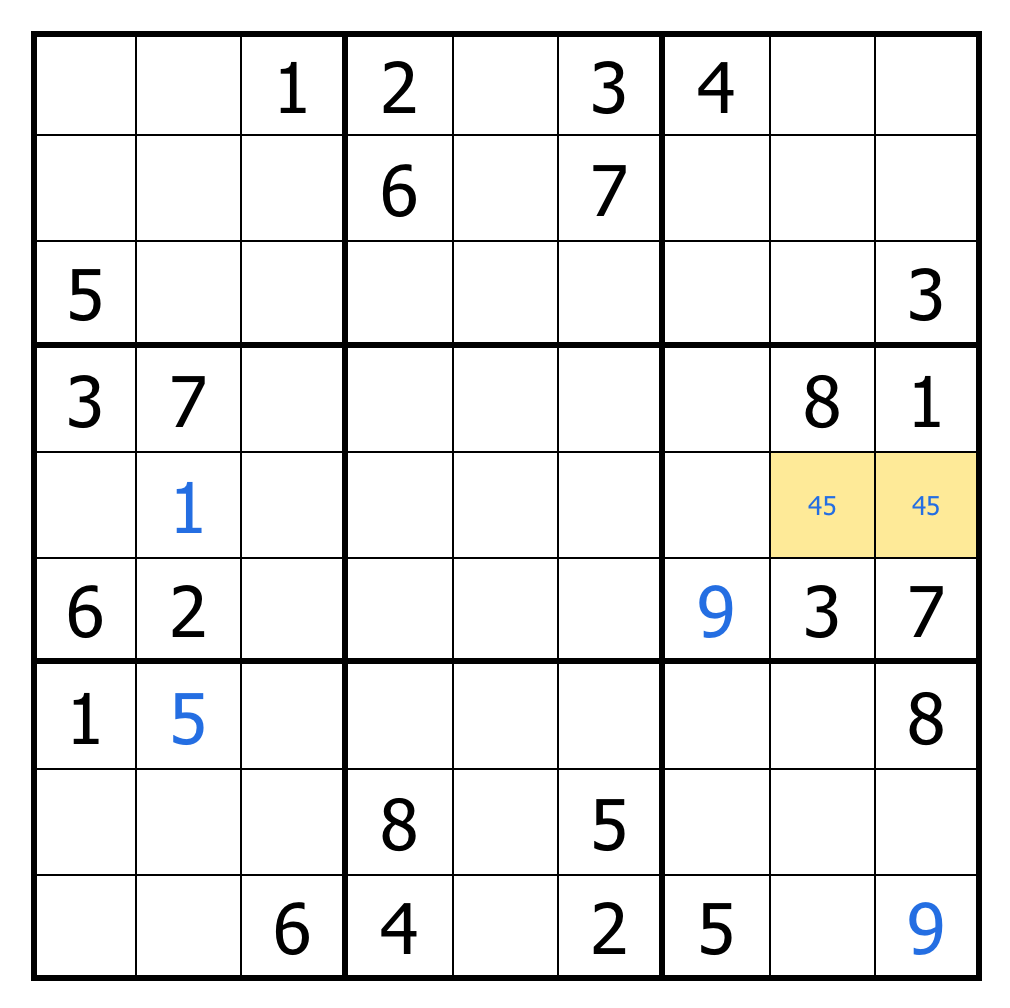
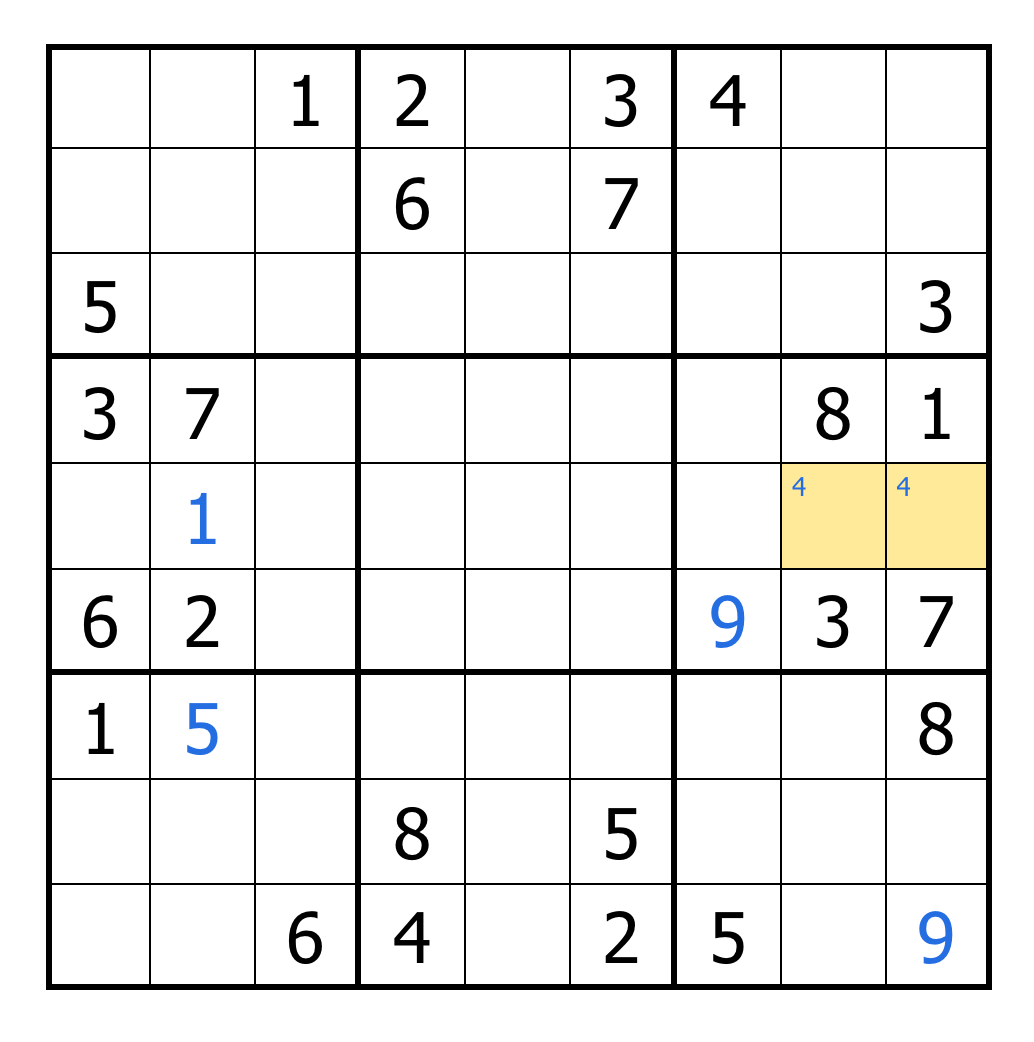
improve explanation

Changed region(s): [[0.0307, 0.0308, 0.9822, 0.9841], [0.2149, 0.3383, 0.2762, 0.369], [0.5218, 0.3383, 0.5525, 0.369]]

diff --git a/posts/2020-06-06.md b/posts/2020-06-06.md
@@ -283,11 +283,11 @@ Before racing ahead, double check these inferences. We've already talked through
 
 #### RULE: Exclusions happen even with uncertainty!
 
-If we check out our hard puzzle, I've filled in our known locations, but I've also highlighted two locations that an experienced Sudoku artist would tell you each must be either four or five. The reasoning is, no other locations can be four of five in that box, and you do need to have both between them.
+If we check out our hard puzzle, I've filled in our known locations, but I've also highlighted two locations that an experienced Sudoku artist would tell you each must contain a four, as no other locations can be four in that box.
 
 ![SUDOKU](https://github.com/frankmcsherry/blog/blob/master/assets/sudoku/pic3.png)
 
-Now, we don't know which is which (and in fact, our program doesn't even know that they need to be four or five yet), but even without knowing which is which we can learn a thing. We don't know which location is which, but it's either four-five or five-four, and both configurations rule out fours and fives from the rest of the row.
+Now, we don't know which is the four, but even without knowing which is which we can learn a thing. We don't know which location is which, but both configurations rule out fours from the rest of the row.
 
 The more general form of the rule is that in any row, column, or box, if all of the possible locations for a value agree on excluding some triple, then that triple should be excluded, even without determining the location of the value. There is actually a fourth instance of this rule, that if all possible values in one location exclude some triple, we can exclude the triple without actually knowing the value at the location. This is what gives us our standard exclusion rules for determined locations.
 
